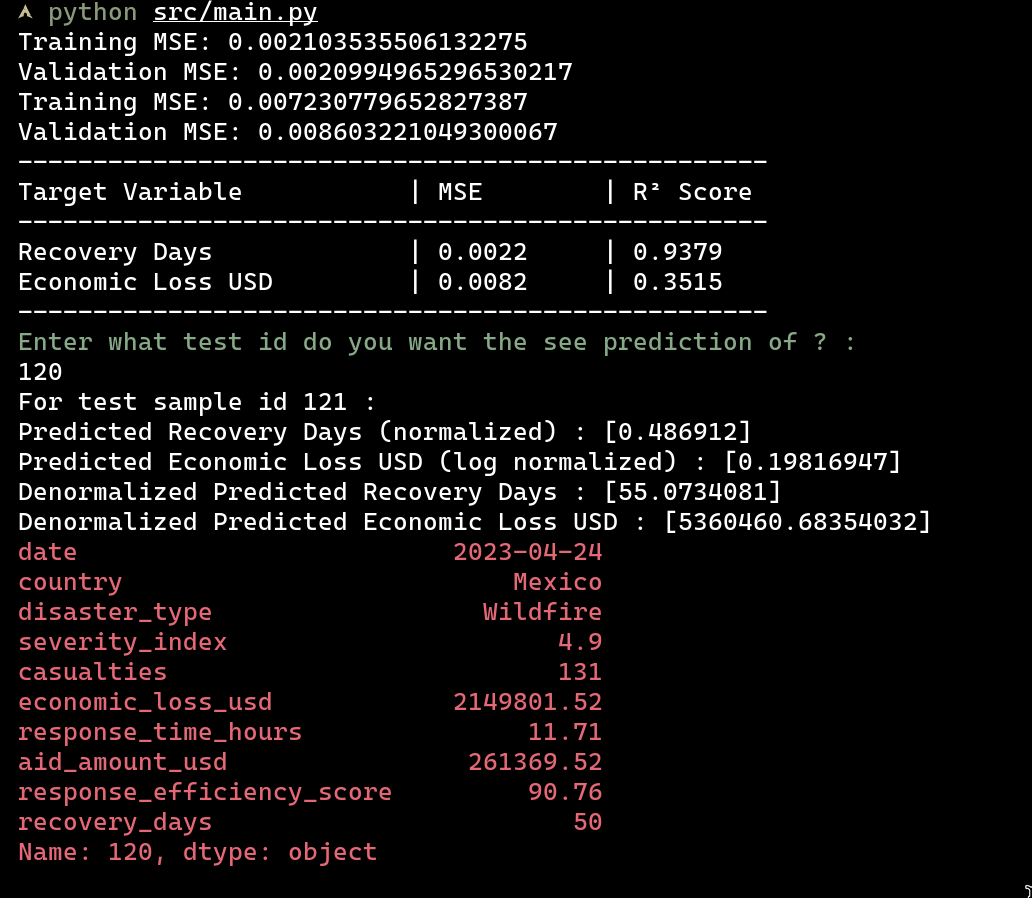
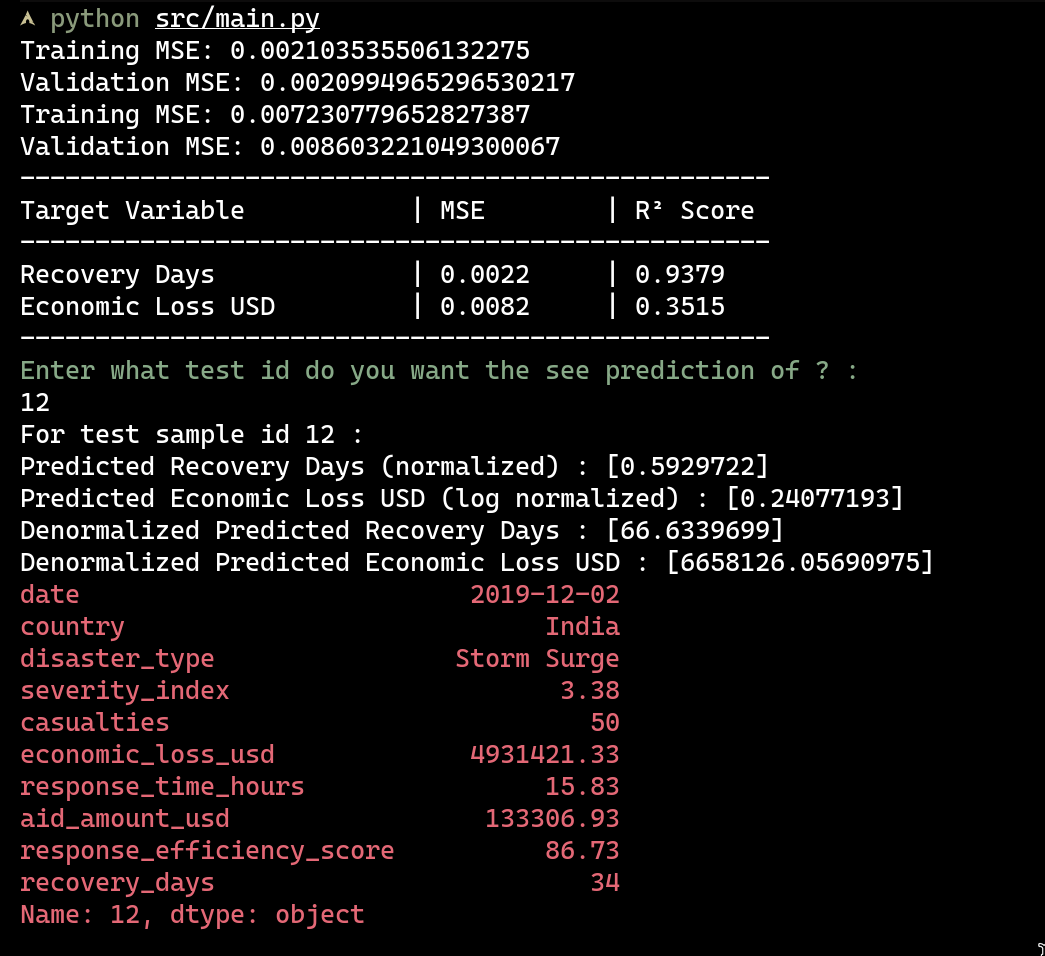
README

Changed region(s): [[0.0, 0.0, 0.8992, 0.9666], [0.9922, 0.9666, 1.0, 1.0]]

diff --git a/README.md b/README.md
@@ -1,3 +1,83 @@
-# WIP PROJECT  
+# Global Disaster Response Prediction
 
-= Hello !
+## 0. Demonstration
+
+
+<div style="text-align: center;">
+ <img src="./images/showcase.png" alt="Showcase" width="800" />
+</div>
+
+
+## 1. General information
+
+**Name of the project:** Global Disaster Response Prediction
+
+**Type of the project:** Personal
+
+**Main Language(s) of the project:** Python
+
+**Goal of this project:**
+The goal was to build a model capable of predicting the number of days required for recovery and the estimated economic loss in USD following a disaster. I wanted to see how well linear models could handle this data based on metrics like severity index, casualties, and response time. This project was primarily a warm-up exercise to get familiar with machine learning workflows again after spending some time doing low-level programming.
+
+**Scope of this project:**
+This is a small-scale regression analysis project. It processes a specific dataset, trains linear models, and outputs predictions. It does not involve complex deployment or deep learning architectures.
+
+**Why:** I wanted to get my hands on machine learning again and I found this data set in kaggle that I thought was interesting.
+
+**Compatibility:**
+ALL OS are supported since python is platform independant.
+
+This project requires Python 3 (specifically tested on 3.13). It relies on standard data science libraries: `pandas`, `numpy`, and `scikit-learn`.
+
+## 2. Project
+
+**What stuff the project tries to implement:**
+The project implements a full data pipeline including loading raw data, feature engineering, normalization, model training, and evaluation. It predicts two distinct target variables: `recovery_days` and `economic_loss_usd`.
+
+**How did the project implement them:**
+I started by splitting the data into training, validation, and testing sets. For feature engineering, I extracted year, month, and day from the date stamps and applied one-hot encoding to categorical features like country and disaster type. I normalized numerical inputs using Min-Max scaling.
+
+For the target variables, I applied specific preprocessing. I used Min-Max scaling for recovery days and a log transformation combined with scaling for the economic loss to handle the massive variance in financial numbers.
+
+I trained two separate Linear Regression models. Regarding performance, I found the economic loss model had an R² score of around 0.3. While the predictions were often off by millions in absolute terms, the model generally got the order of magnitude correct.
+
+## 3. How to run the project :
+
+You need to have the required packages installed (`pandas`, `numpy`, `scikit-learn`).
+
+You can install them using `pip install requirements.txt` but I dont recommend it since I have been
+expermenting a lot and the requirements.txt is basically bloated.
+
+Navigate to the `code` directory in your terminal. Run the main script:
+
+```bash
+python src/main.py
+```
+
+The script will train the models and print the Mean Squared Error and R² scores. It will then prompt you to enter a test ID (an integer) to see a specific prediction compared to the actual data.
+
+## 4. Data Visualizations
+
+I generated several plots during the analysis phase to understand the feature distributions and their relationship with the target variables.
+
+**Distributions and Correlations**
+I checked the distribution of features and targets in the training set and analyzed the correlation matrix.
+
+![Feature Distribution](images/Training_Set_features_distribution.png)
+![Target Distribution](images/Training_Set_target_distribution.png)
+![Correlation Heatmap](images/correlation_heatmap.png)
+
+**Feature Analysis**
+I plotted specific features like severity, casualties, and response time against the targets to identify potential linear relationships.
+
+![Severity vs Targets](images/severity_index_vs_targets.png)
+![Casualties vs Targets](images/casualties_vs_targets.png)
+![Response Time vs Targets](images/response_time_hours_vs_targets.png)
+![Response Lag vs Targets](images/response_lag_vs_targets.png)
+
+**Financial Data Analysis**
+Since the economic data and aid amounts varied heavily, I plotted them on both standard and log scales.
+
+![Aid Amount vs Targets](images/aid_amount_usd_vs_targets.png)
+![Log Aid Amount vs Targets](images/log_aid_amount_usd_vs_targets.png)
+![Log Casualties vs Targets](images/log_casualties_vs_targets.png)
